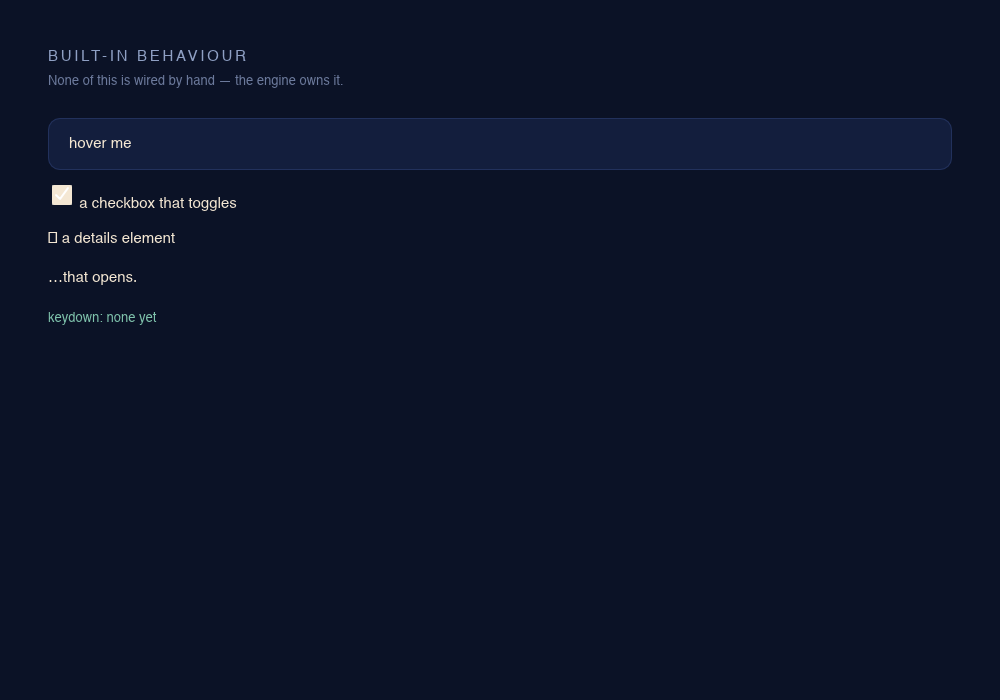
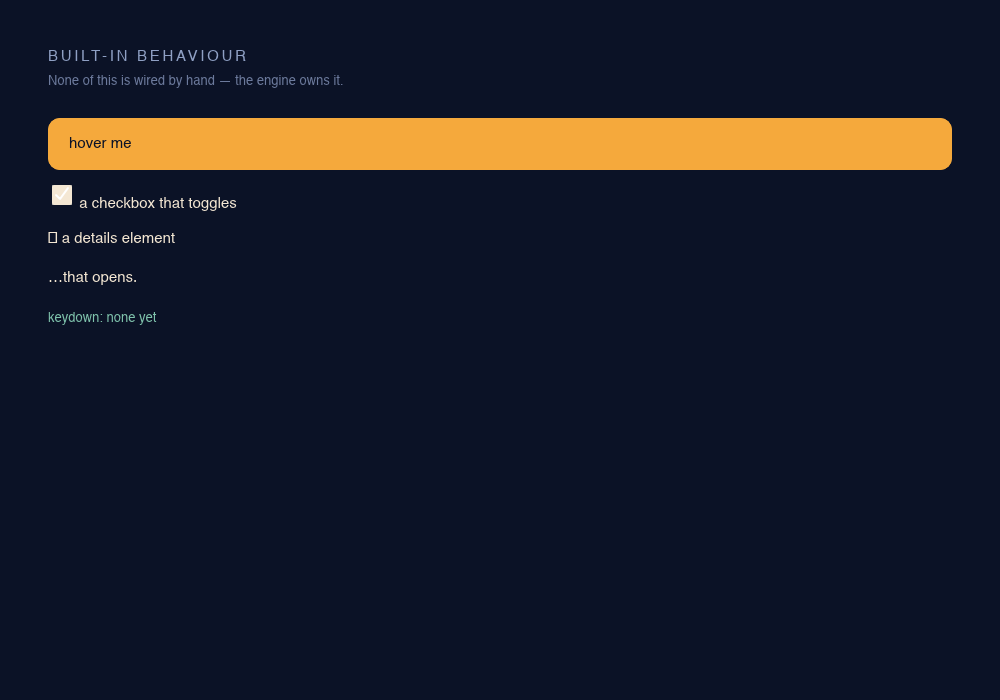
Apply headless interaction flags in the order they were written

Changed region(s): [[0.031, 0.15, 0.961, 0.24]]

diff --git a/src/main.rs b/src/main.rs
@@ -494,14 +494,33 @@ fn open(input: &str, watch: bool, inspect: Option<u16>) -> Result<()> {
     }
 }
 
+enum Action {
+    Click(String),
+    ClickAt(String),
+    Hover(String),
+    Scroll(String),
+    Type(String),
+    Press(String),
+}
+
+impl Action {
+    fn parse(flag: &str, value: &str) -> Option<Self> {
+        let value = value.to_string();
+        match flag {
+            "--click" => Some(Self::Click(value)),
+            "--click-at" => Some(Self::ClickAt(value)),
+            "--hover" => Some(Self::Hover(value)),
+            "--scroll" => Some(Self::Scroll(value)),
+            "--type" => Some(Self::Type(value)),
+            "--press" => Some(Self::Press(value)),
+            _ => None,
+        }
+    }
+}
+
 #[derive(Default)]
 struct Run {
-    clicks: Vec<String>,
-    points: Vec<String>,
-    hovers: Vec<String>,
-    scrolls: Vec<String>,
-    types: Vec<String>,
-    presses: Vec<String>,
+    actions: Vec<Action>,
     snapshot: Option<String>,
     at: Option<String>,
     a11y: Option<String>,
@@ -509,14 +528,21 @@ struct Run {
     dark: bool,
 }
 
+fn click_at(dom: &Dom, script: &Script, x: f32, y: f32) -> Result<()> {
+    for event in [
+        events::pointer_button(x, y, MouseButton::Left, ElementState::Pressed),
+        events::pointer_button(x, y, MouseButton::Left, ElementState::Released),
+    ] {
+        for dispatch in dom.drive(event) {
+            script.dispatch(&dispatch)?;
+        }
+    }
+    Ok(())
+}
+
 fn render(input: &str, output: &str, run: &Run) -> Result<()> {
     let Run {
-        clicks,
-        points,
-        hovers,
-        scrolls,
-        types,
-        presses,
+        actions,
         snapshot,
         at,
         a11y,
@@ -529,108 +555,92 @@ fn render(input: &str, output: &str, run: &Run) -> Result<()> {
         dom.set_color_scheme(blitz_traits::shell::ColorScheme::Dark);
     }
 
-    let mut targets: Vec<(f32, f32)> = Vec::new();
-
     dom.settle(&script);
 
-    for selector in hovers {
-        let node = dom
-            .query_selector(selector)
-            .with_context(|| format!("no element matches {selector}"))?;
-        let (x, y) = dom
-            .center_of(node)
-            .with_context(|| format!("{selector} has no layout box"))?;
-        for dispatch in dom.drive(events::pointer_move(x, y)) {
-            script.dispatch(&dispatch)?;
-        }
-        dom.settle(&script);
-    }
-
-    for selector in clicks {
-        let node = dom
-            .query_selector(selector)
-            .with_context(|| format!("no element matches {selector}"))?;
-        let (x, y) = dom
-            .center_of(node)
-            .with_context(|| format!("{selector} has no layout box"))?;
-        targets.push((x, y));
-    }
-
-    for point in points {
-        let (x, y) = point.split_once(',').context("--click-at expects X,Y")?;
-        targets.push((
-            x.trim().parse().context("--click-at X")?,
-            y.trim().parse().context("--click-at Y")?,
-        ));
-    }
-
-    for (x, y) in targets {
-        for event in [
-            events::pointer_button(x, y, MouseButton::Left, ElementState::Pressed),
-            events::pointer_button(x, y, MouseButton::Left, ElementState::Released),
-        ] {
-            for dispatch in dom.drive(event) {
-                script.dispatch(&dispatch)?;
-            }
-        }
-        dom.settle(&script);
-    }
-
-    for text in types {
-        for ch in text.chars() {
-            let ch = ch.to_string();
-            for pressed in [true, false] {
-                for dispatch in dom.drive(events::text_key(&ch, pressed)) {
+    for action in actions {
+        match action {
+            Action::Hover(selector) => {
+                let node = dom
+                    .query_selector(selector)
+                    .with_context(|| format!("no element matches {selector}"))?;
+                let (x, y) = dom
+                    .center_of(node)
+                    .with_context(|| format!("{selector} has no layout box"))?;
+                for dispatch in dom.drive(events::pointer_move(x, y)) {
                     script.dispatch(&dispatch)?;
                 }
             }
-        }
-        dom.settle(&script);
-    }
-
-    for name in presses {
-        for pressed in [true, false] {
-            let event =
-                events::named(name, pressed).with_context(|| format!("unknown key {name}"))?;
-            for dispatch in dom.drive(event) {
-                script.dispatch(&dispatch)?;
+            Action::Click(selector) => {
+                let node = dom
+                    .query_selector(selector)
+                    .with_context(|| format!("no element matches {selector}"))?;
+                let (x, y) = dom
+                    .center_of(node)
+                    .with_context(|| format!("{selector} has no layout box"))?;
+                click_at(&dom, &script, x, y)?;
             }
-        }
-        dom.settle(&script);
-    }
+            Action::ClickAt(point) => {
+                let (x, y) = point.split_once(',').context("--click-at expects X,Y")?;
+                click_at(
+                    &dom,
+                    &script,
+                    x.trim().parse().context("--click-at X")?,
+                    y.trim().parse().context("--click-at Y")?,
+                )?;
+            }
+            Action::Type(text) => {
+                for ch in text.chars() {
+                    let ch = ch.to_string();
+                    for pressed in [true, false] {
+                        for dispatch in dom.drive(events::text_key(&ch, pressed)) {
+                            script.dispatch(&dispatch)?;
+                        }
+                    }
+                }
+            }
+            Action::Press(name) => {
+                for pressed in [true, false] {
+                    let event = events::named(name, pressed)
+                        .with_context(|| format!("unknown key {name}"))?;
+                    for dispatch in dom.drive(event) {
+                        script.dispatch(&dispatch)?;
+                    }
+                }
+            }
+            Action::Scroll(spec) => {
+                let mut parts = spec.split(',');
+                let selector = parts.next().context("--scroll expects SELECTOR,DX,DY")?;
+                let dx: f64 = parts
+                    .next()
+                    .context("--scroll DX")?
+                    .trim()
+                    .parse()
+                    .context("--scroll DX")?;
+                let dy: f64 = parts
+                    .next()
+                    .context("--scroll DY")?
+                    .trim()
+                    .parse()
+                    .context("--scroll DY")?;
 
-    for spec in scrolls {
-        let mut parts = spec.split(',');
-        let selector = parts.next().context("--scroll expects SELECTOR,DX,DY")?;
-        let dx: f64 = parts
-            .next()
-            .context("--scroll DX")?
-            .trim()
-            .parse()
-            .context("--scroll DX")?;
-        let dy: f64 = parts
-            .next()
-            .context("--scroll DY")?
-            .trim()
-            .parse()
-            .context("--scroll DY")?;
+                let node = dom
+                    .query_selector(selector.trim())
+                    .with_context(|| format!("no element matches {selector}"))?;
+                let (x, y) = dom
+                    .center_of(node)
+                    .with_context(|| format!("{selector} has no layout box"))?;
 
-        let node = dom
-            .query_selector(selector.trim())
-            .with_context(|| format!("no element matches {selector}"))?;
-        let (x, y) = dom
-            .center_of(node)
-            .with_context(|| format!("{selector} has no layout box"))?;
-
-        for dispatch in dom.drive(events::pointer_move(x, y)) {
-            script.dispatch(&dispatch)?;
-        }
-        for dispatch in dom.drive(events::wheel_pixels(x, y, dx, dy)) {
-            script.dispatch(&dispatch)?;
-        }
-        let anchor = dom.hover_node();
-        for dispatch in dom.scroll(anchor, -dx, -dy) {
-            script.dispatch(&dispatch)?;
+                for dispatch in dom.drive(events::pointer_move(x, y)) {
+                    script.dispatch(&dispatch)?;
+                }
+                for dispatch in dom.drive(events::wheel_pixels(x, y, dx, dy)) {
+                    script.dispatch(&dispatch)?;
+                }
+                let anchor = dom.hover_node();
+                for dispatch in dom.scroll(anchor, -dx, -dy) {
+                    script.dispatch(&dispatch)?;
+                }
+            }
         }
         dom.settle(&script);
     }
@@ -982,12 +992,10 @@ fn main() -> Result<()> {
                     .collect()
             };
             let run = Run {
-                clicks: flag("--click"),
-                points: flag("--click-at"),
-                hovers: flag("--hover"),
-                scrolls: flag("--scroll"),
-                types: flag("--type"),
-                presses: flag("--press"),
+                actions: args
+                    .windows(2)
+                    .filter_map(|pair| Action::parse(&pair[0], &pair[1]))
+                    .collect(),
                 snapshot: flag("--snapshot").into_iter().next(),
                 at: flag("--at").into_iter().next(),
                 a11y: flag("--a11y").into_iter().next(),
@@ -1698,6 +1706,34 @@ mod snapshot_tests {
             "var li = document.createElement(\"li\"); li.textContent = \"{label}\"; \
              document.getElementById(\"o\").appendChild(li);"
         )
+    }
+
+    #[test]
+    fn interactions_run_in_the_order_they_were_written() {
+        let argv: Vec<String> = ["--click", "#a", "--hover", ".b", "--type", "x", "--click", "#c"]
+            .iter()
+            .map(ToString::to_string)
+            .collect();
+
+        let written: Vec<String> = argv
+            .windows(2)
+            .filter_map(|pair| Action::parse(&pair[0], &pair[1]))
+            .map(|action| match action {
+                Action::Click(v) => format!("click {v}"),
+                Action::ClickAt(v) => format!("click-at {v}"),
+                Action::Hover(v) => format!("hover {v}"),
+                Action::Scroll(v) => format!("scroll {v}"),
+                Action::Type(v) => format!("type {v}"),
+                Action::Press(v) => format!("press {v}"),
+            })
+            .collect();
+
+        assert_eq!(
+            written,
+            ["click #a", "hover .b", "type x", "click #c"],
+            "grouping the flags by kind would hover before both clicks, which is \
+             a different interaction than the one the command describes"
+        );
     }
 
     #[test]

diff --git a/README.md b/README.md
@@ -277,17 +277,17 @@ Events can be driven without a mouse, which is how the counter above was verifie
 ```console
 $ kiln render examples/counter.html out.png --click "#inc" --click "#dec"
 $ kiln render examples/counter.html out.png --click-at 642,351
-$ kiln render examples/controls.html out.png --hover ".box"
+$ kiln render examples/controls.html out.png --click "summary" --hover ".box"
 ```
 
-All three synthesize real pointer events and run the same `EventDriver` path the window uses — `--click` just resolves a selector to its centre point first.
+All of them synthesize real pointer events and run the same `EventDriver` path the window uses — `--click` just resolves a selector to its centre point first. Flags apply **in the order you write them**, so the last line above opens the disclosure and *then* moves the pointer onto the box.
 
 ## Preact runs
 
 An unmodified Preact build renders and updates against Kiln's DOM, hooks and all:
 
 <p align="center">
-  <img src="assets/preact.png" width="620" alt="A Preact counter showing 4, with five conditional tags, four of them highlighted">
+  <img src="assets/preact.png" width="620" alt="A Preact counter showing 2, with five conditional tags, two of them highlighted">
 </p>
 
 ```console
